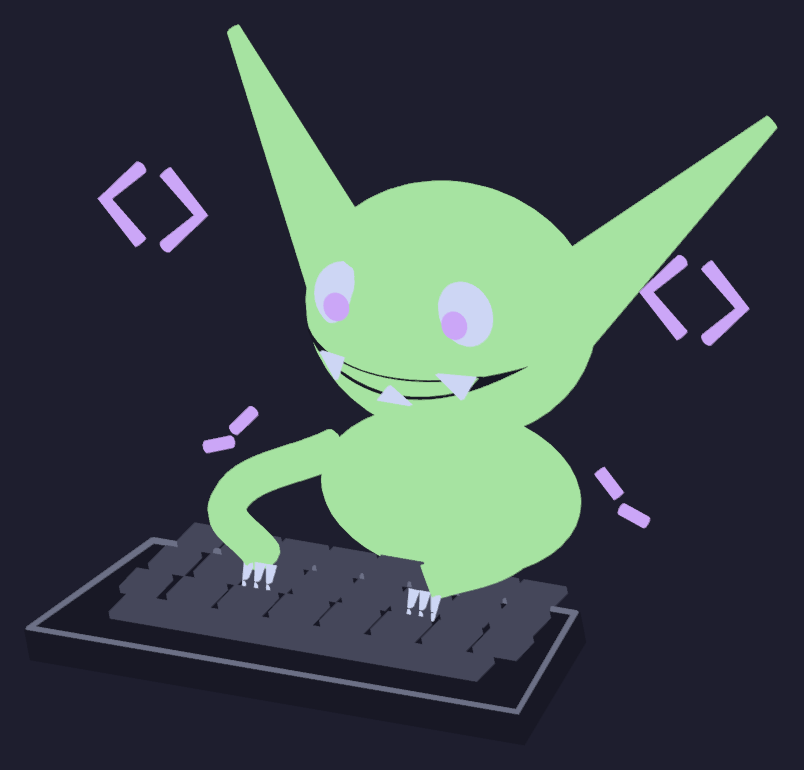
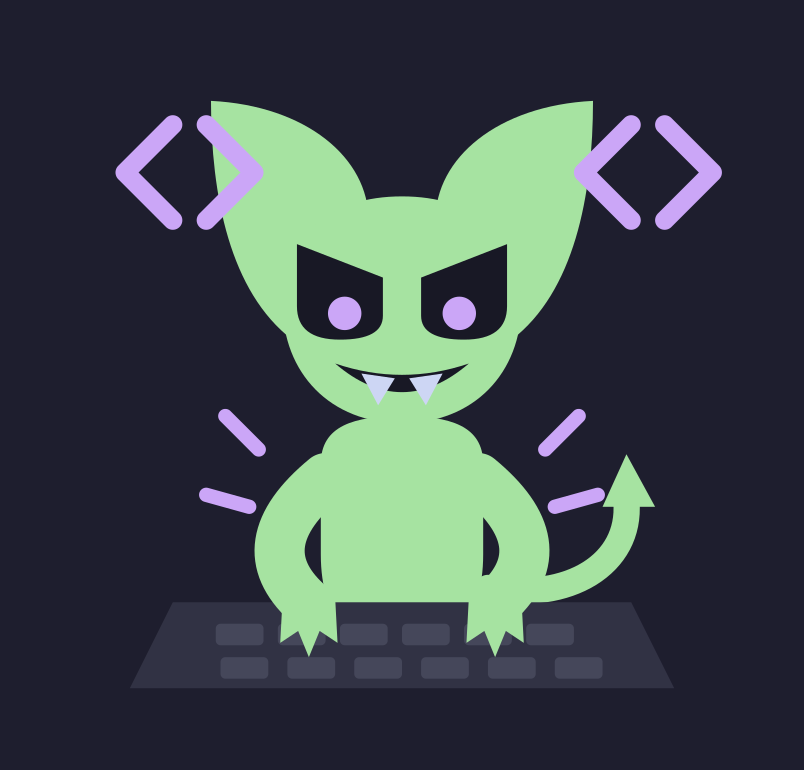
feat(web): the hero is the one gremlin, drawn from the character sheet
Copies the five served hero files from yolo-labz/.github (hero/, merged in #62) byte for byte, refreshes the hashes in public/brand/README.md, the renderAlt text in en, pt and es, and re-renders the share card on the new plate. No layout change: same names, sizes and picture sources.

Changed region(s): [[0.0311, 0.0312, 0.9639, 0.9351]]

diff --git a/apps/web/public/brand/README.md b/apps/web/public/brand/README.md
@@ -7,11 +7,11 @@ window, so phones see the same framing.
 
 | File | Bytes | sha256 |
 |---|---|---|
[10 lines of base64/hex data omitted]
 
 The values are quoted from the published `hero/manifest.json`, and the files here
 were re-hashed against it after copying. Verify with:
@@ -31,5 +31,5 @@ layout shift on decode.
 ## Updating
 
 Copy the five files from `profile/assets/brand/hero/` in `yolo-labz/.github`
-unchanged. `gremlin-hero-804x770-dark.png` (72209 B, `770fcdfa…d6ef`) stays as the
+unchanged. `gremlin-hero-804x770-dark.png` (39097 B, `ab642356…70a4`) stays as the
 input of `scripts/make-share-card.py`; the page no longer serves it.
